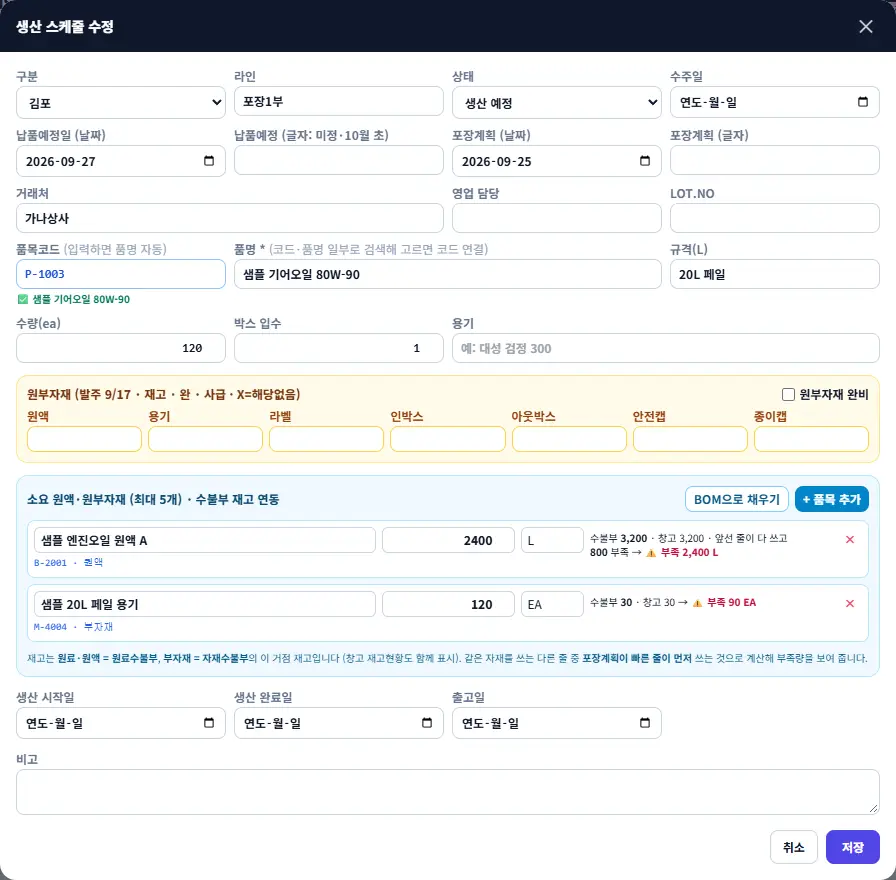
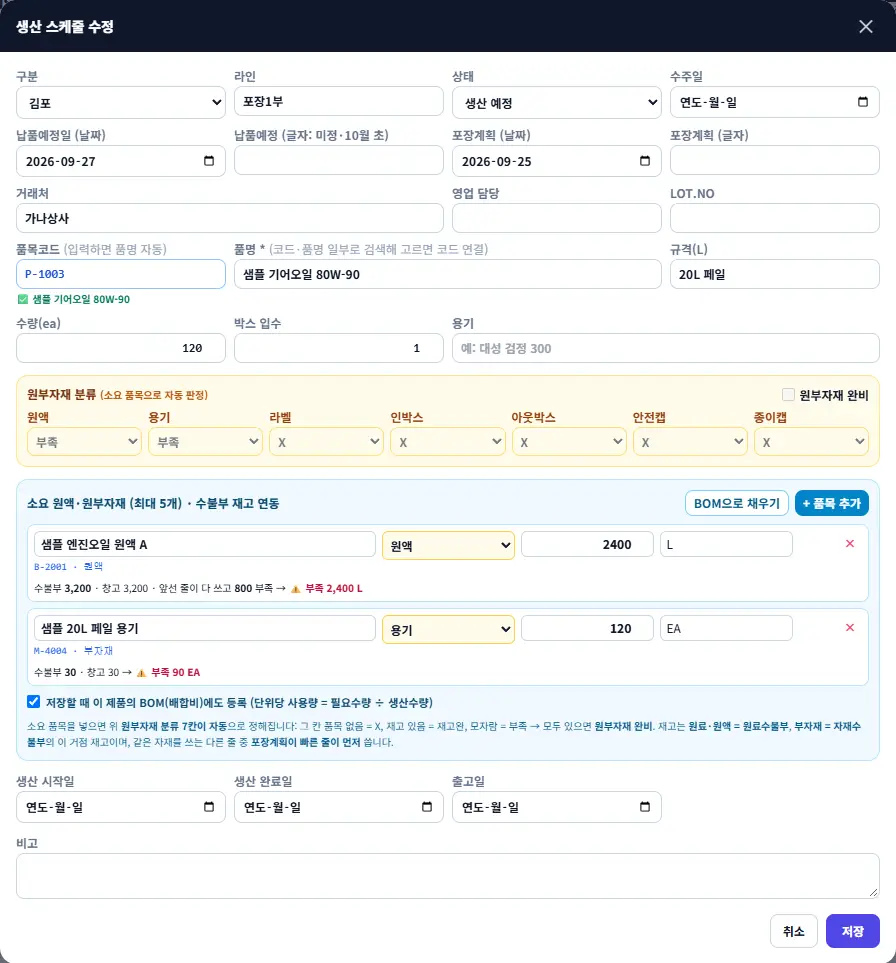
생산스케줄: 소요 품목 → BOM 등록, 원부자재 분류 7칸 자동 판정(X·재고완·부족)·완비 자동, 부족만 표시
- 저장 때 소요 품목을 단위당 사용량(필요수량 ÷ 생산수량)으로 제품 BOM에 등록 (기존과 다르면 확인, 분류 slot 함께 저장)
- 소요 품목마다 분류(원액·용기·라벨·인박스·아웃박스·안전캡·종이캡·기타) 자동 판정 + 드롭다운 변경
- 소요 품목이 있는 줄: 7칸 자동(품목 없음 X / 재고완 / 부족), 모두 있으면 원부자재 완비 자동 체크
- 소요 품목이 없는 줄: 7칸 드롭다운(X·재고완·부족·발주·사급·입고, 예전 글자 유지)
- 표: 부족한 분류만 빨간 표시, 모두 있으면 '원부자재 완비'만, 소요 품목명·수량은 '소요 n품목 ▾'로 펼쳐 보기
- 엑셀·인쇄도 같은 자동 판정, 매뉴얼 갱신

diff --git a/src/components/ProdScheduleTable.js b/src/components/ProdScheduleTable.js
@@ -6,7 +6,7 @@ import { parseScheduleSheet, sheetToRows } from '../services/prodScheduleParse.j
 import { createIcons, icons } from '../services/icons.js';
 import { esc } from '../services/html.js';
 import { siteOf } from '../services/locations.js';
-import { ledgerStock, getBoms, loadBoms, applyShortages, listPlans, weekStart } from '../services/plans.js';
+import { ledgerStock, getBoms, loadBoms, saveBom, applyShortages, listPlans, weekStart } from '../services/plans.js';
 import { canPerformAction } from '../services/auth.js';
 import { attachItemPicker } from './plans/planCommon.js';
 
@@ -74,6 +74,36 @@ export const allocateMats = (list) => {
     return out;
 };
 const matLine = (it) => `${it.code ? `${it.code} ` : ''}${it.name} ${fmt(it.qty)}${it.unit || ''}${it.done ? '' : it.short > 0 ? ` (부족 ${fmt(it.short)})` : it.code ? ' (재고 OK)' : ''}`;
+
+// ---------- 원부자재 분류 칸 (원액·용기·라벨·인박스·아웃박스·안전캡·종이캡) ----------
+// 소요 품목의 분류(slot)를 품목 분류·이름으로 자동 판정한다 (입력 창에서 드롭다운으로 바꿀 수 있음)
+export const guessSlot = (it) => {
+    const m = state.master.find(x => x.code === it.code) || {};
+    const cat = it.category || m.category || '';
+    const n = `${it.name || m.name || ''} ${m.subCategory || ''}`;
+    if (cat === '원액' || cat === '원료') return 'raw';
+    if (/안전\s*캡/.test(n)) return 'safetyCap';
+    if (/종이\s*캡/.test(n)) return 'paperCap';
+    if (/인\s*박스|inner\s*box/i.test(n)) return 'inbox';
+    if (/아웃\s*박스|박스|카톤|box|carton/i.test(n)) return 'outbox';
+    if (/라벨|스티커|label/i.test(n)) return 'label';
+    if (/용기|페일|말통|드럼|캔|병|IBC|bottle|pail|drum|can/i.test(n)) return 'container';
+    if (/캡|cap/i.test(n)) return 'safetyCap';
+    return '';
+};
+const slotOf = (it) => (it.slot !== undefined && it.slot !== null && it.slot !== 'AUTO' ? it.slot : guessSlot(it));
+// 소요 품목이 있는 줄은 7칸을 자동 판정: 그 칸 품목 없음 → X, 재고 있음 → 재고완, 모자람 → 부족
+export const autoSlotStatus = (items) => {
+    const out = {};
+    MATERIAL_KEYS.forEach(([k]) => {
+        const its = items.filter(it => slotOf(it) === k);
+        const short = r3(its.reduce((s, it) => s + (it.done ? 0 : Number(it.short) || 0), 0));
+        out[k] = !its.length ? { text: 'X', short: 0, items: [] } : { text: short > 0 ? '부족' : '재고완', short, items: its, unit: its[0].unit || '' };
+    });
+    return out;
+};
+const isAutoRow = (r) => (r.matItems || []).some(it => it.code || it.name);
+const MAT_TEXT_OPTIONS = ['', 'X', '재고완', '부족', '발주', '사급', '입고'];
 
 // 스케줄 줄·품목의 부족분을 생산관리 계획 줄로 (ref로 같은 줄을 찾아 수량만 갱신 → 여러 번 눌러도 쌓이지 않음)
 const schedRef = (r, code) => `SCHED:${r.id}:${code}`;
@@ -195,6 +225,43 @@ export const renderProdSchedule = (el, { showToast = () => {}, onChanged = () =>
         return '';
     };
 
+    // 원부자재 칸: 소요 품목이 있는 줄은 부족한 칸만 '부족', 모두 있으면 '원부자재 완비'만.
+    // 소요 품목명·수량은 [소요 n품목 ▾]를 눌러야 펼쳐진다. 소요 품목이 없는 예전 줄은 상태 글자를 그대로 보여준다.
+    const expanded = new Set();
+    const matCellHtml = (r) => {
+        if (!isAutoRow(r)) {
+            return `<div class="flex flex-wrap gap-0.5 min-w-[150px]">${MATERIAL_KEYS.filter(([k]) => r.materials?.[k]).map(([k, label]) => `<span class="px-1 py-0.5 rounded border text-[10px] font-bold ${matTone(r.materials[k])}" title="${esc(label)}: ${esc(r.materials[k])}">${esc(label)} ${esc(r.materials[k].split('→').pop().trim().slice(0, 8))}</span>`).join('')}${r.matsDone ? '<span class="px-1 py-0.5 rounded bg-emerald-600 text-white text-[10px] font-black">원부자재 완비</span>' : ''}</div>`;
+        }
+        const items = allocMap.get(r.id) || [];
+        const st = autoSlotStatus(items);
+        const shortKeys = MATERIAL_KEYS.filter(([k]) => st[k].short > 0);
+        const otherShort = items.filter(it => !slotOf(it) && !it.done && it.short > 0);
+        const anyShort = shortKeys.length || otherShort.length;
+        const open = expanded.has(r.id);
+        return `<div class="min-w-[170px] space-y-1">
+            <div class="flex flex-wrap gap-0.5">
+                ${anyShort ? [
+                    ...shortKeys.map(([k, label]) => `<span class="px-1 py-0.5 rounded border text-[10px] font-black bg-rose-50 text-rose-700 border-rose-200" title="${esc(st[k].items.map(matLine).join(' / '))}">${esc(label)} 부족 ${fmt(st[k].short)}${esc(st[k].unit || '')}</span>`),
+                    ...otherShort.map(it => `<span class="px-1 py-0.5 rounded border text-[10px] font-black bg-rose-50 text-rose-700 border-rose-200">${esc(it.name)} 부족 ${fmt(it.short)}${esc(it.unit || '')}</span>`)
+                ].join('') : '<span class="px-1.5 py-0.5 rounded bg-emerald-600 text-white text-[10px] font-black">원부자재 완비</span>'}
+            </div>
+            <div class="flex flex-wrap items-center gap-1">
+                <button type="button" class="ps-mat-toggle text-[10px] font-bold text-slate-500 hover:text-slate-800 underline decoration-dotted">소요 ${items.length}품목 ${open ? '▴' : '▾'}</button>
+                ${anyShort && canPlan && items.some(it => it.short > 0 && !it.done && it.code) ? '<button type="button" class="ps-row-plan px-1.5 py-0.5 rounded border border-emerald-300 bg-emerald-50 text-emerald-700 text-[10px] font-black hover:bg-emerald-100">🛒 부족분 계획 반영</button>' : ''}
+            </div>
+            ${open ? `<div class="p-1.5 rounded-lg bg-slate-50 border border-slate-200 space-y-0.5">${items.map(it => `<div class="text-[10px] leading-tight ${!it.done && it.short > 0 ? 'text-rose-700 font-black' : 'text-slate-600'}" title="수불부 재고 ${fmt(it.stock)} · 창고 재고 ${fmt(it.inv)} · 앞선 줄 사용 후 ${fmt(Math.max(0, it.avail))}">
+                <span class="px-1 rounded bg-white border border-slate-200 text-slate-500 font-bold">${esc(MATERIAL_KEYS.find(([k]) => k === slotOf(it))?.[1] || '기타')}</span>
+                <span class="font-mono">${esc(it.code)}</span> ${esc(it.name)} <b>${fmt(it.qty)}${esc(it.unit || '')}</b>${it.done ? '' : it.short > 0 ? ` 부족 ${fmt(it.short)}` : it.code ? ' ✅' : ''}${planRefs.has(schedRef(r, it.code)) ? ` <span class="px-1 rounded bg-emerald-100 text-emerald-700 font-bold" title="생산관리 계획에 반영됨 (${fmt(planRefs.get(schedRef(r, it.code)).qty)})">${planRefs.get(schedRef(r, it.code)).kind === 'PROD' ? '🧪 원액계획' : '🛒 구매계획'}</span>` : ''}</div>`).join('')}</div>` : ''}
+        </div>`;
+    };
+    // 엑셀·인쇄용 7칸 글자 (소요 품목이 있으면 자동 판정)
+    const slotTexts = (r) => {
+        if (!isAutoRow(r)) return MATERIAL_KEYS.map(([k]) => r.materials?.[k] || '');
+        const st = autoSlotStatus(allocMap.get(r.id) || []);
+        return MATERIAL_KEYS.map(([k]) => (st[k].short > 0 ? `부족 ${fmt(st[k].short)}` : st[k].text));
+    };
+    const matsDoneOf = (r) => (isAutoRow(r) ? !(allocMap.get(r.id) || []).some(it => !it.done && it.short > 0) : !!r.matsDone);
+
     const rowHtml = (r) => `
         <tr class="align-top hover:bg-slate-50 ${r.status === 'SHIPPED' ? 'opacity-60' : ''}" data-id="${esc(r.id)}">
             <td class="p-1.5"><select class="ps-status border rounded px-1 py-0.5 text-[11px] font-bold ${PROD_STATUS[r.status]?.cls || ''}">${Object.entries(PROD_STATUS).map(([k, v]) => `<option value="${k}" ${k === r.status ? 'selected' : ''}>${v.label}</option>`).join('')}</select></td>
@@ -207,9 +274,7 @@ export const renderProdSchedule = (el, { showToast = () => {}, onChanged = () =>
             <td class="p-1.5 text-right font-mono font-black">${fmt(r.qty)}</td>
             <td class="p-1.5 text-right font-mono whitespace-nowrap">${fmt(boxesOf(r))}${r.perBox ? `<div class="text-[10px] text-slate-400">×${fmt(r.perBox)}</div>` : ''}</td>
             <td class="p-1.5 text-[11px] text-slate-600 min-w-[90px]">${esc(r.container)}</td>
-            <td class="p-1.5"><div class="flex flex-wrap gap-0.5 min-w-[150px]">${MATERIAL_KEYS.filter(([k]) => r.materials?.[k]).map(([k, label]) => `<span class="px-1 py-0.5 rounded border text-[10px] font-bold ${matTone(r.materials[k])}" title="${esc(label)}: ${esc(r.materials[k])}">${esc(label)} ${esc(r.materials[k].split('→').pop().trim().slice(0, 8))}</span>`).join('')}${r.matsDone ? '<span class="px-1 py-0.5 rounded bg-emerald-600 text-white text-[10px] font-black">완비</span>' : ''}</div>
-                ${(allocMap.get(r.id) || []).length ? `<div class="mt-1 space-y-0.5 min-w-[190px]">${(allocMap.get(r.id) || []).map(it => `<div class="text-[10px] leading-tight ${it.short > 0 ? 'text-rose-700 font-black' : 'text-slate-600'}" title="수불부 재고 ${fmt(it.stock)} · 창고 재고 ${fmt(it.inv)} · 앞선 줄 사용 후 ${fmt(Math.max(0, it.avail))}">${it.done ? '·' : it.short > 0 ? '⚠' : it.code ? '✅' : '·'} <span class="font-mono">${esc(it.code)}</span> ${esc(it.name)} <b>${fmt(it.qty)}${esc(it.unit || '')}</b>${!it.done && it.short > 0 ? ` 부족 ${fmt(it.short)}` : ''}${planRefs.has(schedRef(r, it.code)) ? ` <span class="px-1 rounded bg-emerald-100 text-emerald-700 font-bold" title="생산관리 계획에 반영됨 (${fmt(planRefs.get(schedRef(r, it.code)).qty)})">${planRefs.get(schedRef(r, it.code)).kind === 'PROD' ? '🧪 원액계획' : '🛒 구매계획'}</span>` : ''}</div>`).join('')}
-                ${(allocMap.get(r.id) || []).some(it => it.short > 0 && !it.done && it.code) && canPlan ? `<button type="button" class="ps-row-plan mt-1 px-1.5 py-0.5 rounded border border-emerald-300 bg-emerald-50 text-emerald-700 text-[10px] font-black hover:bg-emerald-100">🛒 이 줄 부족분 계획 반영</button>` : ''}</div>` : ''}</td>
+            <td class="p-1.5">${matCellHtml(r)}</td>
             <td class="p-1.5 font-mono whitespace-nowrap text-[11px]">${r.prodStart || r.prodEnd ? `${esc(md(r.prodStart))}~${esc(md(r.prodEnd))}` : ''}</td>
             <td class="p-1.5 font-mono text-[11px]">${esc(r.lotNo)}</td>
             <td class="p-1.5 font-mono whitespace-nowrap">${esc(md(r.shipDate))}</td>
@@ -378,6 +443,7 @@ export const renderProdSchedule = (el, { showToast = () => {}, onChanged = () =>
             });
             tr.querySelector('.ps-edit').addEventListener('click', () => openEditor(r));
             tr.querySelector('.ps-row-plan')?.addEventListener('click', () => applyToPlans([r], `'${[r.partner, r.itemName].filter(Boolean).join(' · ')}' 줄의 부족분을 계획에 반영할까요?`));
+            tr.querySelector('.ps-mat-toggle')?.addEventListener('click', () => { if (expanded.has(r.id)) expanded.delete(r.id); else expanded.add(r.id); draw(); });
             tr.querySelector('.ps-del').addEventListener('click', async () => {
                 if (!confirm(`'${r.partner} · ${r.itemName}' 줄을 삭제할까요?`)) return;
                 try { await deleteProdRow(r.id); rows = rows.filter(x => x !== r); refreshDates(); } catch (err) { alert(err.message); }
@@ -454,9 +520,13 @@ export const renderProdSchedule = (el, { showToast = () => {}, onChanged = () =>
                     <label class="block md:col-span-2"><span class="font-bold text-slate-500">용기</span><input data-k="container" value="${esc(r.container)}" placeholder="예: 대성 검정 300" class="ps-f mt-0.5 w-full border border-slate-300 rounded-lg px-2 py-1.5 font-bold" /></label>
                 </div>
                 <div class="p-2.5 bg-amber-50 border border-amber-200 rounded-xl space-y-1.5">
-                    <div class="flex items-center justify-between"><span class="font-black text-amber-900">원부자재 (발주 9/17 · 재고 · 완 · 사급 · X=해당없음)</span>
-                        <label class="flex items-center gap-1 font-bold"><input type="checkbox" data-k="matsDone" class="ps-f" ${r.matsDone ? 'checked' : ''} />원부자재 완비</label></div>
-                    <div class="grid grid-cols-2 md:grid-cols-7 gap-1.5">${MATERIAL_KEYS.map(([k, label]) => `<label class="block"><span class="font-bold text-amber-800">${label}</span><input data-mat="${k}" value="${esc(r.materials[k] || '')}" class="ps-m mt-0.5 w-full border border-amber-300 rounded-lg px-1.5 py-1 font-bold bg-white" /></label>`).join('')}</div>
+                    <div class="flex items-center justify-between"><span class="font-black text-amber-900">원부자재 분류 <span id="ps-mat-mode" class="font-bold text-[10px] text-amber-700"></span></span>
+                        <label class="flex items-center gap-1 font-bold"><input type="checkbox" data-k="matsDone" id="ps-mats-done" class="ps-f" ${r.matsDone ? 'checked' : ''} />원부자재 완비</label></div>
+                    <div class="grid grid-cols-2 md:grid-cols-7 gap-1.5">${MATERIAL_KEYS.map(([k, label]) => {
+                        const v = r.materials[k] || '';
+                        const opts = MAT_TEXT_OPTIONS.includes(v) ? MAT_TEXT_OPTIONS : [...MAT_TEXT_OPTIONS, v];
+                        return `<label class="block"><span class="font-bold text-amber-800">${label}</span><select data-mat="${k}" class="ps-m mt-0.5 w-full border border-amber-300 rounded-lg px-1 py-1 font-bold bg-white disabled:bg-amber-50/60 disabled:text-slate-700">${opts.map(o => `<option value="${esc(o)}" ${o === v ? 'selected' : ''}>${o ? esc(o) : '-'}</option>`).join('')}</select></label>`;
+                    }).join('')}</div>
                 </div>
                 <div class="p-2.5 bg-sky-50 border border-sky-200 rounded-xl space-y-2">
                     <div class="flex flex-wrap items-center justify-between gap-2">
@@ -467,7 +537,8 @@ export const renderProdSchedule = (el, { showToast = () => {}, onChanged = () =>
                         </div>
                     </div>
                     <div id="ps-mat-rows" class="space-y-1.5"></div>
-                    <p class="text-[10px] text-sky-800">재고는 <b>원료·원액 = 원료수불부</b>, <b>부자재 = 자재수불부</b>의 이 거점 재고입니다 (창고 재고현황도 함께 표시). 같은 자재를 쓰는 다른 줄 중 <b>포장계획이 빠른 줄이 먼저</b> 쓰는 것으로 계산해 부족량을 보여 줍니다.</p>
+                    <label class="flex items-center gap-1.5 text-[11px] font-bold text-sky-900"><input type="checkbox" id="ps-mat-bom-save" checked /> 저장할 때 이 제품의 BOM(배합비)에도 등록 (단위당 사용량 = 필요수량 ÷ 생산수량)</label>
+                    <p class="text-[10px] text-sky-800">소요 품목을 넣으면 위 <b>원부자재 분류 7칸이 자동</b>으로 정해집니다: 그 칸 품목 없음 = X, 재고 있음 = 재고완, 모자람 = 부족 → 모두 있으면 <b>원부자재 완비</b>. 재고는 <b>원료·원액 = 원료수불부</b>, <b>부자재 = 자재수불부</b>의 이 거점 재고이며, 같은 자재를 쓰는 다른 줄 중 <b>포장계획이 빠른 줄이 먼저</b> 씁니다.</p>
                 </div>
                 <div class="grid grid-cols-2 md:grid-cols-4 gap-2">${inp('prodStart', '생산 시작일', 'date')}${inp('prodEnd', '생산 완료일', 'date')}${inp('shipDate', '출고일', 'date')}</div>
                 <label class="block"><span class="font-bold text-slate-500">비고</span><textarea data-k="notes" rows="2" class="ps-f mt-0.5 w-full border border-slate-300 rounded-lg px-2 py-1.5">${esc(r.notes)}</textarea></label>
@@ -534,7 +605,25 @@ export const renderProdSchedule = (el, { showToast = () => {}, onChanged = () =>
             const after = r3(it.avail) === r3(it.stock) ? '' : it.avail >= 0 ? ` · 앞선 줄 사용 후 <b>${fmt(it.avail)}</b>` : ` · 앞선 줄이 다 쓰고 <b>${fmt(-it.avail)}</b> 부족`;
             return `수불부 <b>${fmt(it.stock)}</b> · 창고 ${fmt(it.inv)}${after} → ${st}`;
         };
-        const updateInfo = () => { const info = matInfo(); matHost.querySelectorAll('.ps-mat-info').forEach(elx => { elx.innerHTML = infoHtml(info[Number(elx.dataset.i)]); }); };
+        // 소요 품목이 있으면 분류 7칸·원부자재 완비를 자동 판정해 보여주고 잠근다 (없으면 직접 고름)
+        const syncAuto = (info) => {
+            const auto = r.matItems.some(x => x.code || x.name);
+            const st = auto ? autoSlotStatus(info.map((it, i) => ({ ...it, slot: r.matItems[i]?.slot }))) : null;
+            m.querySelectorAll('.ps-m').forEach(sel => {
+                if (auto) {
+                    const v = st[sel.dataset.mat].text;
+                    if (![...sel.options].some(o => o.value === v)) sel.insertAdjacentHTML('beforeend', `<option value="${esc(v)}">${esc(v)}</option>`);
+                    sel.value = v;
+                }
+                sel.disabled = auto;
+                sel.classList.toggle('text-rose-700', auto && sel.value === '부족');
+            });
+            const done = m.querySelector('#ps-mats-done');
+            if (auto) done.checked = !MATERIAL_KEYS.some(([k]) => st[k].short > 0) && !info.some((it, i) => !slotOf({ ...it, slot: r.matItems[i]?.slot }) && it.short > 0);
+            done.disabled = auto;
+            m.querySelector('#ps-mat-mode').textContent = auto ? '(소요 품목으로 자동 판정)' : '(소요 품목이 없으면 직접 고릅니다: X = 해당없음)';
+        };
+        const updateInfo = () => { const info = matInfo(); matHost.querySelectorAll('.ps-mat-info').forEach(elx => { elx.innerHTML = infoHtml(info[Number(elx.dataset.i)]); }); syncAuto(info); };
         const renderMats = () => {
             m.querySelector('#ps-mat-add').disabled = r.matItems.length >= MAX_MAT_ITEMS;
             m.querySelector('#ps-mat-add').classList.toggle('opacity-40', r.matItems.length >= MAX_MAT_ITEMS);
@@ -543,19 +632,23 @@ export const renderProdSchedule = (el, { showToast = () => {}, onChanged = () =>
                 <div class="grid grid-cols-12 gap-1.5 items-start bg-white border border-sky-200 rounded-lg p-1.5">
                     <div class="col-span-12 md:col-span-5"><input type="text" data-i="${i}" value="${esc(it.name)}" placeholder="품목코드·품명 일부 (원액·원료·부자재)" class="ps-mat-item w-full border border-slate-300 rounded-md px-1.5 py-1 font-bold" autocomplete="off" />
                         <div class="text-[10px] font-mono text-blue-600 mt-0.5">${esc(it.code || '')}${it.category ? ` · ${esc(it.category)}` : ''}</div></div>
-                    <div class="col-span-5 md:col-span-2"><input type="number" min="0" step="any" data-i="${i}" value="${esc(it.qty ?? '')}" placeholder="필요수량" class="ps-mat-qty w-full border border-slate-300 rounded-md px-1.5 py-1 text-right font-black" /></div>
-                    <div class="col-span-3 md:col-span-1"><input type="text" data-i="${i}" value="${esc(it.unit || '')}" placeholder="단위" class="ps-mat-unit w-full border border-slate-300 rounded-md px-1.5 py-1" /></div>
-                    <div class="col-span-3 md:col-span-3 text-[10px] leading-snug pt-1 ps-mat-info" data-i="${i}"></div>
+                    <div class="col-span-4 md:col-span-2"><select data-i="${i}" class="ps-mat-slot w-full border border-amber-300 rounded-md px-1 py-1 font-bold bg-amber-50" title="원부자재 분류 칸">
+                        ${[...MATERIAL_KEYS, ['', '기타']].map(([k, label]) => `<option value="${k}" ${slotOf(it) === k ? 'selected' : ''}>${label}</option>`).join('')}</select></div>
+                    <div class="col-span-4 md:col-span-2"><input type="number" min="0" step="any" data-i="${i}" value="${esc(it.qty ?? '')}" placeholder="필요수량" class="ps-mat-qty w-full border border-slate-300 rounded-md px-1.5 py-1 text-right font-black" /></div>
+                    <div class="col-span-3 md:col-span-2"><input type="text" data-i="${i}" value="${esc(it.unit || '')}" placeholder="단위" class="ps-mat-unit w-full border border-slate-300 rounded-md px-1.5 py-1" /></div>
                     <div class="col-span-1 text-right"><button type="button" data-i="${i}" class="ps-mat-del text-rose-500 font-black px-1.5 py-1" title="빼기">&times;</button></div>
+                    <div class="col-span-12 text-[10px] leading-snug ps-mat-info" data-i="${i}"></div>
                 </div>`).join('');
             matHost.querySelectorAll('.ps-mat-item').forEach(inpx => attachItemPicker(inpx, (it) => {
                 const i = Number(inpx.dataset.i);
                 if (r.matItems.some((x, j) => j !== i && x.code === it.code)) { alert(`[${it.code}] ${it.name}은(는) 이미 넣은 품목입니다. 그 줄의 수량을 고치세요.`); inpx.value = r.matItems[i].name || ''; return; }
                 r.matItems[i] = { ...r.matItems[i], code: it.code, name: it.name, category: it.category || '', unit: it.unit || r.matItems[i].unit || '' };
+                r.matItems[i].slot = guessSlot(r.matItems[i]); // 분류 칸 자동 판정 (드롭다운으로 바꿀 수 있음)
                 renderMats();
             }, (it) => it.category !== '완제품'));
             matHost.querySelectorAll('.ps-mat-qty').forEach(inpx => inpx.addEventListener('input', () => { r.matItems[Number(inpx.dataset.i)].qty = inpx.value === '' ? '' : Number(inpx.value); updateInfo(); }));
             matHost.querySelectorAll('.ps-mat-unit').forEach(inpx => inpx.addEventListener('input', () => { r.matItems[Number(inpx.dataset.i)].unit = inpx.value.trim(); }));
+            matHost.querySelectorAll('.ps-mat-slot').forEach(sel => sel.addEventListener('change', () => { r.matItems[Number(sel.dataset.i)].slot = sel.value; updateInfo(); }));
             matHost.querySelectorAll('.ps-mat-del').forEach(b => b.addEventListener('click', () => { r.matItems.splice(Number(b.dataset.i), 1); renderMats(); }));
             updateInfo();
         };
@@ -576,7 +669,8 @@ export const renderProdSchedule = (el, { showToast = () => {}, onChanged = () =>
             if (r.matItems.some(x => x.code || x.name) && !confirm('지금 소요 품목을 BOM 기준으로 바꿀까요?')) return;
             r.matItems = list.slice(0, MAX_MAT_ITEMS).map(x => {
                 const mm = state.master.find(y => y.code === x.code) || {};
-                return { code: x.code, name: mm.name || x.code, category: mm.category || '', unit: mm.unit || '', qty: r3(Number(x.rate) * qty) };
+                const it = { code: x.code, name: mm.name || x.code, category: mm.category || '', unit: mm.unit || '', qty: r3(Number(x.rate) * qty) };
+                return { ...it, slot: x.slot !== undefined ? x.slot : guessSlot(it) };
             });
             if (list.length > MAX_MAT_ITEMS) showToast(`BOM 품목이 ${list.length}개라 앞의 ${MAX_MAT_ITEMS}개만 넣었습니다.`);
             renderMats();
@@ -592,8 +686,30 @@ export const renderProdSchedule = (el, { showToast = () => {}, onChanged = () =>
             if (!r.itemCode && !confirm('품목코드 없이 저장할까요?\n(품목코드가 있어야 생산계획·BOM·재고와 정확히 연동됩니다)')) return;
             if (r.matItems.some(x => (x.code || x.name) && !(Number(x.qty) > 0))) { alert('소요 원부자재의 필요수량을 넣으세요.'); return; }
             r.matItems = r.matItems.filter(x => x.code || x.name);
+            // BOM 등록 준비: 단위당 사용량 = 필요수량 ÷ 생산수량 (코드가 있는 소요 품목만)
+            const wantBom = m.querySelector('#ps-mat-bom-save')?.checked && r.itemCode && Number(r.qty) > 0 && r.matItems.some(x => x.code);
+            let bomPlan = null;
+            if (wantBom) {
+                const rate = (x) => Math.round(Number(x.qty) / Number(r.qty) * 1e6) / 1e6;
+                const entry = (x) => ({ code: x.code, rate: rate(x), slot: slotOf(x) });
+                const withCode = r.matItems.filter(x => x.code && Number(x.qty) > 0);
+                const isRaw = (x) => { const c = x.category || state.master.find(y => y.code === x.code)?.category; return c === '원액' || c === '원료'; };
+                const next = { rawList: withCode.filter(isRaw).map(entry), subList: withCode.filter(x => !isRaw(x)).map(entry) };
+                const prev = getBoms()[r.itemCode];
+                const key = (b) => [...(b?.rawList || []), ...(b?.subList || [])].map(x => `${x.code}:${Math.round(Number(x.rate) * 1e6) / 1e6}`).sort().join('|');
+                if (!prev || key(prev) !== key(next)) {
+                    const lines = [...next.rawList, ...next.subList].map(x => `· ${state.master.find(y => y.code === x.code)?.name || x.code}: 1개당 ${x.rate}`).join('\n');
+                    if (!prev || confirm(`[${r.itemCode}] ${r.itemName}의 BOM(배합비)을 이 스케줄 값으로 바꿀까요?\n\n${lines}\n\n(취소하면 스케줄만 저장합니다)`)) bomPlan = next;
+                }
+            }
             try {
                 const [savedRow] = await saveProdRows([r]);
+                if (bomPlan) {
+                    try {
+                        const res = await saveBom(r.itemCode, bomPlan.rawList, bomPlan.subList);
+                        showToast(`🧾 [${r.itemCode}] BOM을 ${res.cloud ? '등록했습니다 (모든 기기·생산계획에 사용)' : '이 기기에 저장했습니다'}.`);
+                    } catch (e) { alert(`스케줄은 저장했지만 BOM 등록에 실패했습니다: ${e.message}`); }
+                }
                 // 캘린더에서 연 줄은 지금 보는 작성일자가 아닐 수 있다
                 const target = savedRow.sheetDate === cur ? rows : (latestRows || []);
                 const i = target.findIndex(x => x.id === savedRow.id);
@@ -609,7 +725,7 @@ export const renderProdSchedule = (el, { showToast = () => {}, onChanged = () =>
     const exportXlsx = (list) => {
         const head = ['구분', '라인', '상태', '수주일', '납품예정', '포장계획', '거래처', '담당', '품목코드', '품명', '규격(L)', '수량(ea)', '박스입수', '박스량', '용기', ...MATERIAL_KEYS.map(([, l]) => l), '원부자재완비', '생산시작', '생산완료', 'LOT.NO', '출고일', '비고', '소요 원부자재 (필요수량·부족)'];
         const data = groupsOf(list).flatMap(g => g.rows).map(r => [r.site, r.line, PROD_STATUS[r.status]?.label || r.status, r.orderDate, r.dueText || r.dueDate, r.planText || r.planDate, r.partner, r.manager, r.itemCode, r.itemName, r.spec,
-            r.qty === '' ? '' : Number(r.qty), r.perBox === '' ? '' : Number(r.perBox), boxesOf(r) === '' ? '' : Math.round(boxesOf(r) * 10) / 10, r.container, ...MATERIAL_KEYS.map(([k]) => r.materials?.[k] || ''), r.matsDone ? 'O' : '', r.prodStart, r.prodEnd, r.lotNo, r.shipDate, r.notes,
+            r.qty === '' ? '' : Number(r.qty), r.perBox === '' ? '' : Number(r.perBox), boxesOf(r) === '' ? '' : Math.round(boxesOf(r) * 10) / 10, r.container, ...slotTexts(r), matsDoneOf(r) ? 'O' : '', r.prodStart, r.prodEnd, r.lotNo, r.shipDate, r.notes,
             (allocMap.get(r.id) || []).map(matLine).join(' / ')]);
         const ws = XLSX.utils.aoa_to_sheet([head, ...data]);
         ws['!cols'] = head.map((h, i) => ({ wch: [6, 8, 10, 11, 11, 11, 18, 8, 11, 36, 7, 9, 8, 8, 18, 9, 9, 9, 9, 9, 8, 8, 8, 11, 11, 11, 11, 40, 70][i] || 10 }));
@@ -627,7 +743,9 @@ export const renderProdSchedule = (el, { showToast = () => {}, onChanged = () =>
             const q = g.rows.reduce((s, r) => s + (Number(r.qty) || 0), 0);
             const b = g.rows.reduce((s, r) => s + (Number(boxesOf(r)) || 0), 0);
             return `<tr class="grp"><td colspan="13">${esc(g.key)} — ${g.rows.length}줄 · ${fmt(q)} ea · ${fmt(b)} 박스</td></tr>`
-                + g.rows.map(r => `<tr>${cell(PROD_STATUS[r.status]?.label)}${cell(md(r.orderDate))}${cell(dateOrText(r.dueDate, r.dueText))}${cell(dateOrText(r.planDate, r.planText))}${cell(`${r.partner}${r.manager ? ` / ${r.manager}` : ''}`)}${cell(`${r.itemCode ? `[${r.itemCode}] ` : ''}${r.itemName}`, 'name')}${cell(fmt(r.qty), 'num')}${cell(`${fmt(boxesOf(r))}${r.perBox ? ` (×${fmt(r.perBox)})` : ''}`, 'num')}${cell(r.container)}<td class="small">${esc(MATERIAL_KEYS.filter(([k]) => r.materials?.[k]).map(([k, l]) => `${l}:${r.materials[k]}`).join(' · '))}${(allocMap.get(r.id) || []).map(it => `<div class="${!it.done && it.short > 0 ? 'short' : ''}">${esc(matLine(it))}</div>`).join('')}</td>${cell(r.lotNo)}${cell(md(r.shipDate))}${cell(r.notes, 'small')}</tr>`).join('');
+                + g.rows.map(r => `<tr>${cell(PROD_STATUS[r.status]?.label)}${cell(md(r.orderDate))}${cell(dateOrText(r.dueDate, r.dueText))}${cell(dateOrText(r.planDate, r.planText))}${cell(`${r.partner}${r.manager ? ` / ${r.manager}` : ''}`)}${cell(`${r.itemCode ? `[${r.itemCode}] ` : ''}${r.itemName}`, 'name')}${cell(fmt(r.qty), 'num')}${cell(`${fmt(boxesOf(r))}${r.perBox ? ` (×${fmt(r.perBox)})` : ''}`, 'num')}${cell(r.container)}<td class="small">${isAutoRow(r)
+                    ? (() => { const tx = slotTexts(r); const shorts = MATERIAL_KEYS.map(([, l], i) => (tx[i].startsWith('부족') ? `${l} ${tx[i]}` : '')).filter(Boolean); return shorts.length ? `<span class="short">${esc(shorts.join(' · '))}</span>` : '원부자재 완비'; })()
+                    : `${esc(MATERIAL_KEYS.filter(([k]) => r.materials?.[k]).map(([k, l]) => `${l}:${r.materials[k]}`).join(' · '))}${r.matsDone ? ' (완비)' : ''}`}</td>${cell(r.lotNo)}${cell(md(r.shipDate))}${cell(r.notes, 'small')}</tr>`).join('');
         }).join('');
         w.document.write(`<!DOCTYPE html><html lang="ko"><head><meta charset="utf-8"><title>생산 스케줄 ${cur}</title><style>
             @page { size: A4 landscape; margin: 8mm; } body { font-family: 'Malgun Gothic', sans-serif; font-size: 8pt; color: #000; }

diff --git a/src/data/manualContent.js b/src/data/manualContent.js
@@ -137,7 +137,7 @@ const USER_MANUAL = {
                         '`+ 줄 추가`로 주문을 넣습니다 (구분 본사/김포, 라인, 거래처, 품목코드·품명, 수량, 납품예정, 포장계획, 원부자재 등).',
                         '진행에 따라 **상태**(보류·예정·준비·생산중·완료·출고)를 바꿉니다. 생산중·완료·출고로 바꾸면 날짜가 자동으로 들어갑니다.',
                         '표 위 보기 탭으로 나눠 봅니다: `전체` · `본사` · `김포` · `OEM` · `ODM` · `완료·출고대기` (탭 옆 숫자 = 줄 수). 진행 중 보기에서는 완료·출고대기 줄이 빠지고 `완료·출고대기` 탭에서 따로 봅니다.',
-                        '표의 `원부자재` 칸에 소요 품목과 재고 상태(✅ 충분 / ⚠ 부족 n)가 보이고, 모자란 줄은 품명 아래 **⚠ 원부자재 부족**, 표 위에 **원부자재 부족 n줄**로 표시됩니다.',
+                        '표의 `원부자재` 칸에는 **부족한 분류만** 빨갛게(예: `용기 부족 100EA`) 보이고, 모두 있으면 **`원부자재 완비`만** 보입니다. 소요 품목명·수량은 `소요 n품목 ▾`를 누르면 펼쳐집니다. 모자란 줄은 품명 아래 **⚠ 원부자재 부족**, 표 위에 **원부자재 부족 n줄**로도 표시됩니다.',
                         '`A4 스케줄 인쇄`, `엑셀 다운로드`를 씁니다 (소요 원부자재와 부족량도 함께 나옵니다). 예전 엑셀 파일은 `엑셀 가져오기`로 날짜 시트를 옮깁니다 (이미 있는 줄은 건너뜀).'
                     ],
                     tips: ['캘린더에는 **최신 작성일자**의 포장계획(🏭)·납품예정(🚚)이 표시되고, 누르면 바로 수정 창이 열립니다.', '납기가 지난 줄은 빨강, 7일 안은 주황으로 표시됩니다.',
@@ -151,13 +151,16 @@ const USER_MANUAL = {
                         '`품목코드`에 코드를 넣으면(대소문자 무관) 품명·규격이 자동으로 채워집니다. 또는 `품명` 칸에 코드·품명 일부를 입력해 목록에서 고르면 코드가 함께 들어갑니다. 코드 아래 ✅ 표시로 연결을 확인합니다.',
                         '`소요 원액·원부자재`에서 `+ 품목 추가`를 누르고, 코드·품명 일부(예: `원액`, `4L 용기`, `B-2001`)로 검색해 고른 뒤 **필요수량**을 넣습니다. 원액·원료·부자재 중 **최대 5개**까지 넣을 수 있습니다.',
                         '제품의 BOM(배합비)이 저장되어 있으면 품목코드와 수량을 넣고 `BOM으로 채우기`를 누르면 원액·부자재와 필요수량이 자동으로 들어갑니다.',
+                        '품목마다 **분류**(원액·용기·라벨·인박스·아웃박스·안전캡·종이캡·기타)가 자동으로 정해집니다. 틀리면 드롭다운으로 바꾸세요.',
                         '품목마다 **수불부 재고 · 창고 재고 · 앞선 줄 사용 후 남는 재고**와 결과(✅ 재고 충분 / ⚠ 부족 n)가 바로 보입니다.',
-                        '`저장`을 누르면 표에 소요 품목과 부족량이 표시됩니다.'
+                        '위 **원부자재 분류 7칸이 자동**으로 정해집니다: 그 분류 품목이 없으면 `X`, 재고가 있으면 `재고완`, 모자라면 `부족`. 모두 있으면 **원부자재 완비**가 자동으로 체크됩니다.',
+                        '`저장`할 때 `이 제품의 BOM(배합비)에도 등록`이 켜져 있으면, 단위당 사용량(필요수량 ÷ 생산수량)으로 **BOM이 등록**됩니다. 기존 BOM과 다르면 바꿀지 묻습니다.'
                     ],
                     tips: [
                         '재고는 원료·원액은 **원료수불부**, 부자재는 **자재수불부**의 그 거점(본사/김포) 재고입니다 (수불부에 없으면 창고 재고).',
                         '같은 자재를 여러 줄이 쓰면 **포장계획(없으면 납품예정)이 빠른 줄부터** 재고를 먼저 쓰는 것으로 계산합니다. 미정·보류 줄은 맨 뒤, 완료·출고완료 줄은 이미 생산했으므로 계산에서 뺍니다.',
-                        '기존 원부자재 상태 글자 칸(발주 9/17 · 재고 · 완 …)은 그대로 씁니다.'
+                        '소요 품목을 넣지 않은 줄은 분류 7칸을 드롭다운(`X` · `재고완` · `부족` · `발주` · `사급` · `입고`)으로 직접 고릅니다. 예전에 적은 글자(예: 발주 9/17)는 그대로 남습니다.',
+                        '등록된 BOM은 다음 스케줄의 `BOM으로 채우기`, 제품생산 화면, 생산계획 부족량 계산에 함께 쓰입니다.'
                     ],
                     cautions: [
                         '같은 품목은 한 번만 넣을 수 있습니다 (수량을 고치세요). 품목을 넣고 필요수량을 비우면 저장되지 않습니다.',

diff --git a/src/services/plans.js b/src/services/plans.js
@@ -175,7 +175,8 @@ export const saveBom = async (code, rawList, subList) => {
     const sb = cloud();
     // 원액의 원료 배합은 보안 자료라 클라우드 BOM(모든 사용자가 조회)에 올리지 않는다
     if (!sb || item?.category === '원액' || item?.category === '원료') return { cloud: false };
-    const clean = (list) => (list || []).filter(x => x.code && Number(x.rate) > 0).map(x => ({ code: x.code, rate: Number(x.rate) }));
+    // slot: 생산스케줄 원부자재 분류 칸 (있으면 함께 저장)
+    const clean = (list) => (list || []).filter(x => x.code && Number(x.rate) > 0).map(x => ({ code: x.code, rate: Number(x.rate), ...(x.slot !== undefined ? { slot: x.slot } : {}) }));
     const { error } = await sb.from('wms_product_boms').upsert({ code, raw_list: clean(rawList), sub_list: clean(subList), updated_at: new Date().toISOString(), updated_by: state.currentGlobalWorker || '' }, { onConflict: 'code' });
     if (error) throw new Error(`BOM을 클라우드에 저장하지 못했습니다: ${error.message}`);
     cloudBoms = { ...(cloudBoms || {}), [code]: { rawList: clean(rawList), subList: clean(subList), updatedAt: new Date().toISOString() } };

diff --git a/src/services/prodSchedule.js b/src/services/prodSchedule.js
@@ -24,7 +24,8 @@ export const MAX_MAT_ITEMS = 5;
 const cleanMatItems = (list) => (Array.isArray(list) ? list : [])
     .filter(m => m && (m.code || m.name))
     .slice(0, MAX_MAT_ITEMS)
-    .map(m => ({ code: m.code || '', name: m.name || '', category: m.category || '', unit: m.unit || '', qty: m.qty === '' || m.qty === null || m.qty === undefined ? null : Number(m.qty) }));
+    .map(m => ({ code: m.code || '', name: m.name || '', category: m.category || '', unit: m.unit || '', qty: m.qty === '' || m.qty === null || m.qty === undefined ? null : Number(m.qty),
+        ...(m.slot !== undefined ? { slot: m.slot || '' } : {}) })); // slot: 원부자재 분류 칸 (raw·container·label·inbox·outbox·safetyCap·paperCap, '' = 기타)
 export const fromRow = (r) => ({
     id: r.id, sheetDate: r.sheet_date || '', site: r.site || '본사', line: r.line || '', status: r.status || 'PLANNED',
     orderDate: r.order_date || '', dueText: r.due_text || '', dueDate: r.due_date || '', planText: r.plan_text || '', planDate: r.plan_date || '',
